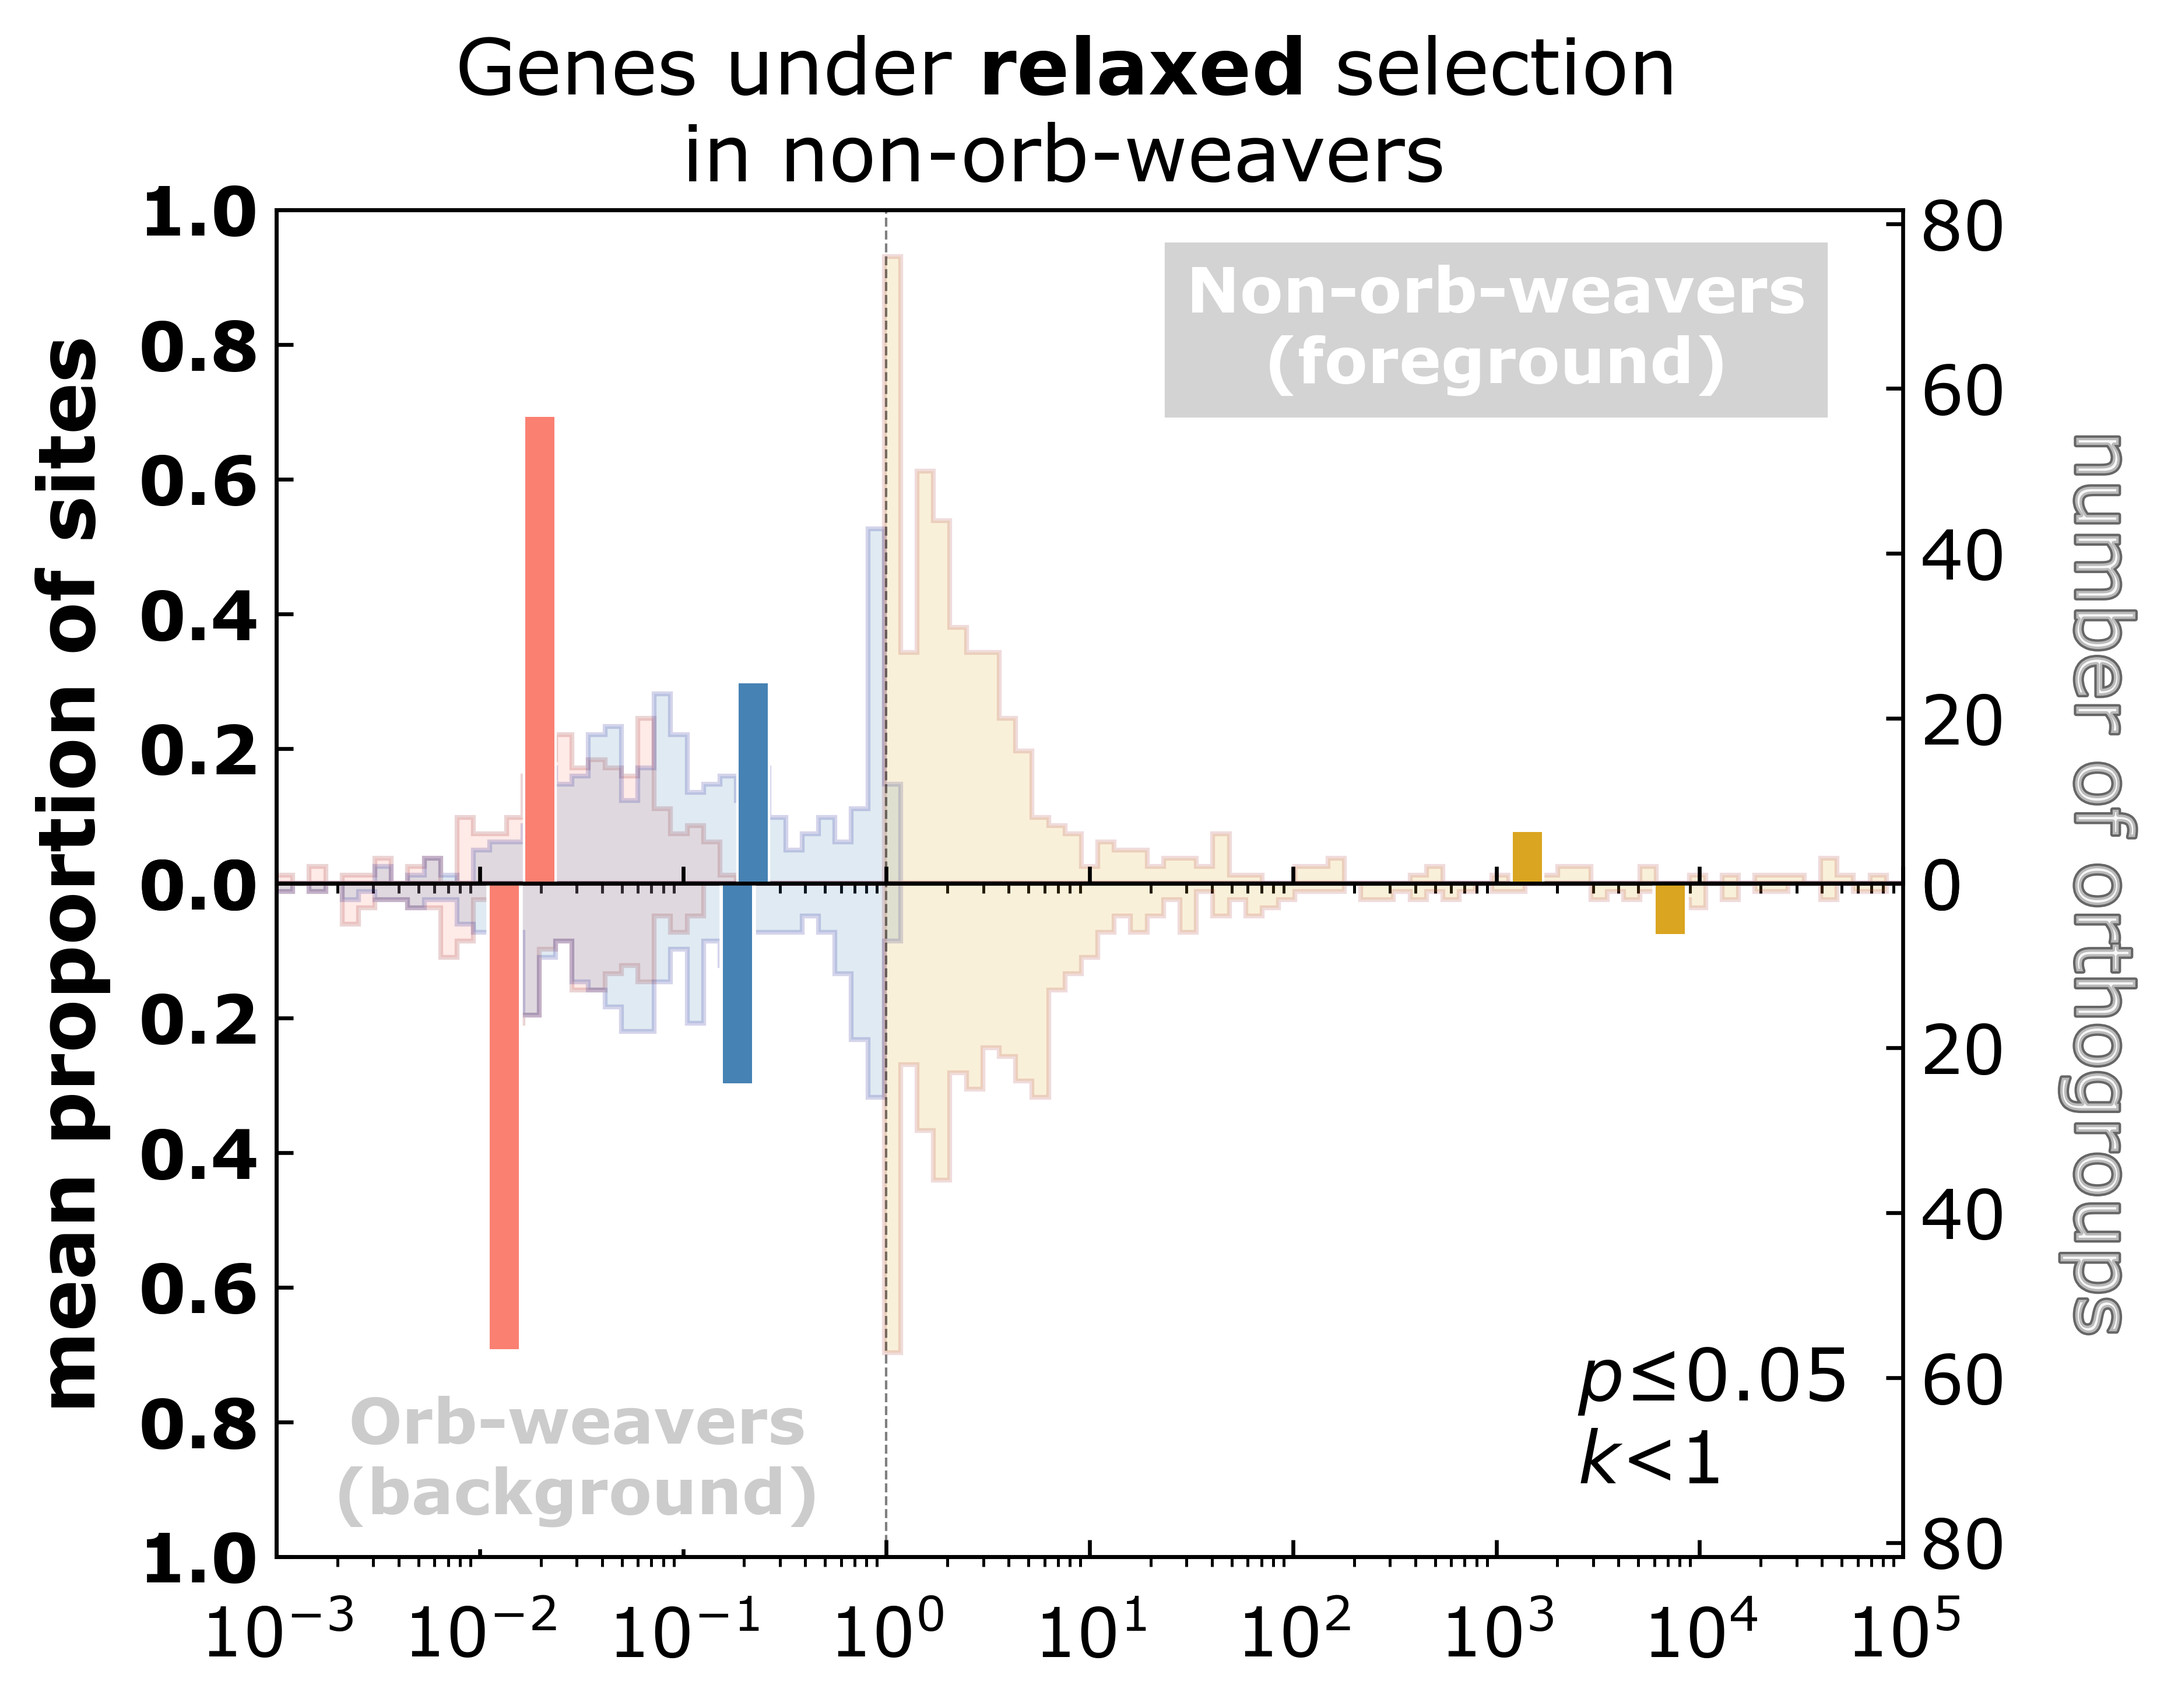
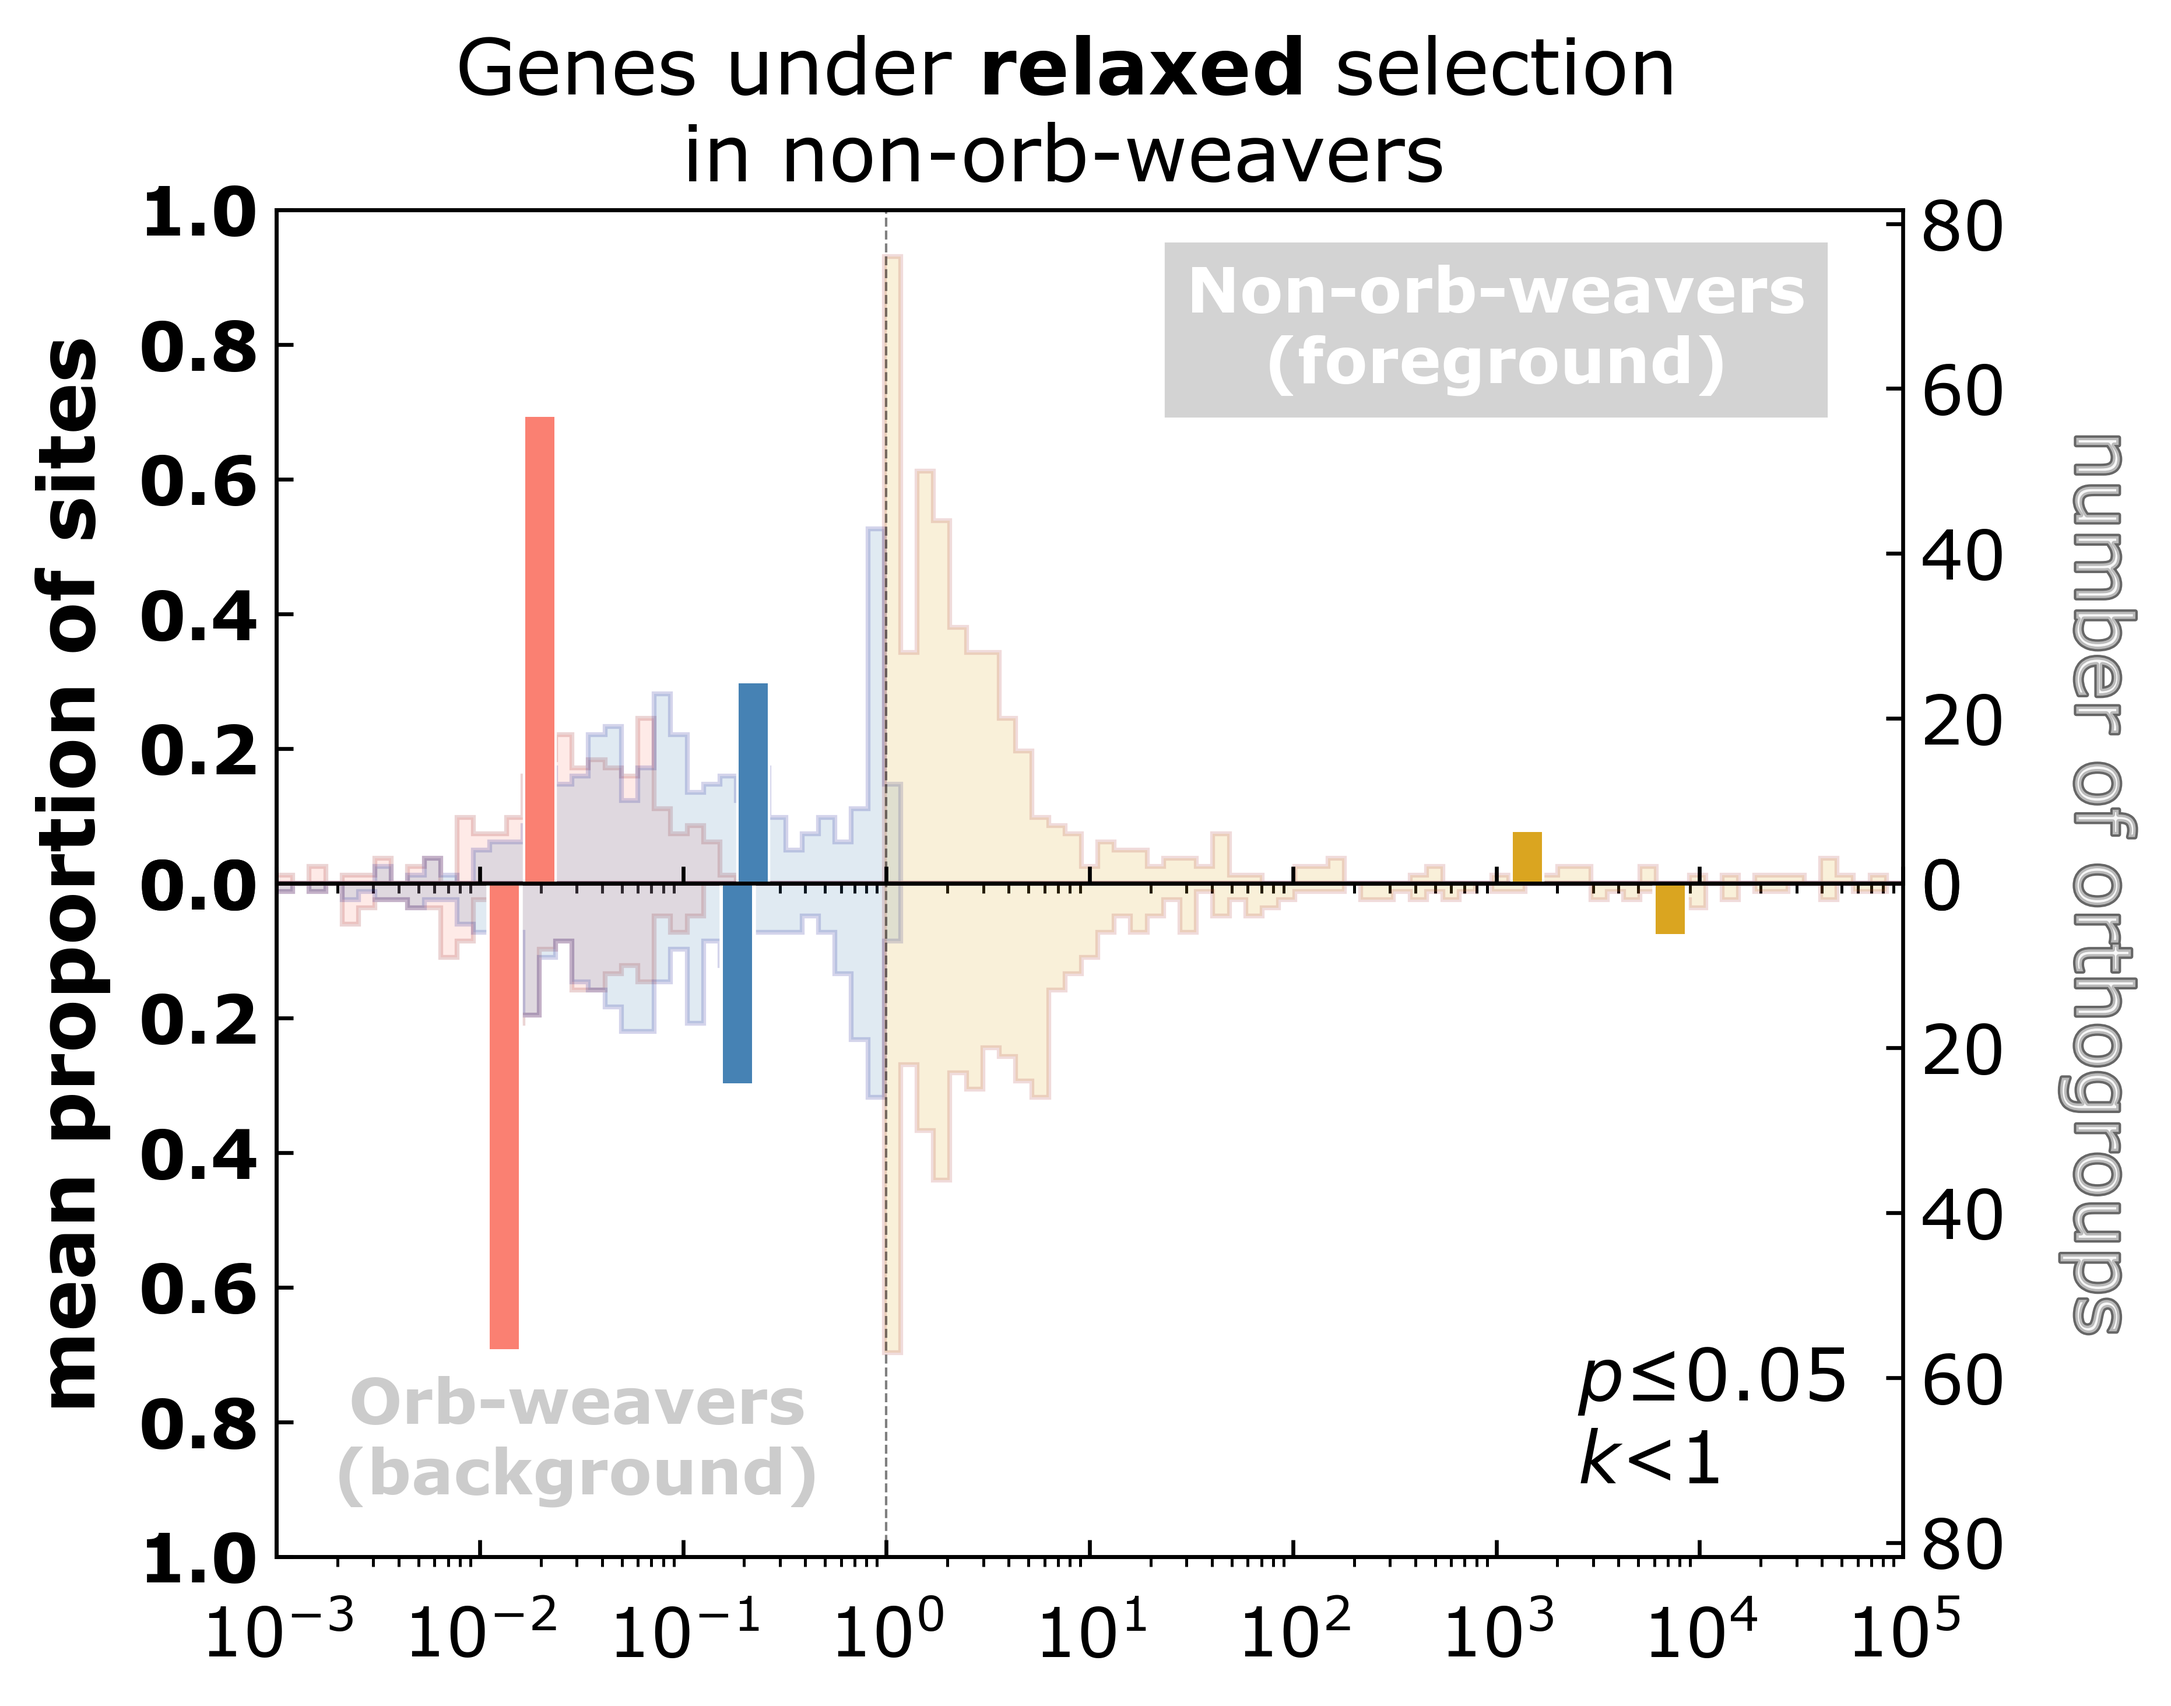
again

Changed region(s): [[0.1557, 0.8086, 0.3738, 0.9019]]

diff --git a/scripts/07_figures_tables/omega_plots_consolidated.py b/scripts/07_figures_tables/omega_plots_consolidated.py
@@ -177,7 +177,7 @@ def plot_omega_distributions(
             weight='bold', backgroundcolor='lightgray',
         )
         ax_avgs2.set_title(
-            bottom_title, x=bottom_title_x, y=0.02, fontsize=13, alpha=0.8,
+            bottom_title, x=bottom_title_x, y=0.05, fontsize=13, alpha=0.8,
             color='silver', weight='bold', backgroundcolor='white',
         )
 
